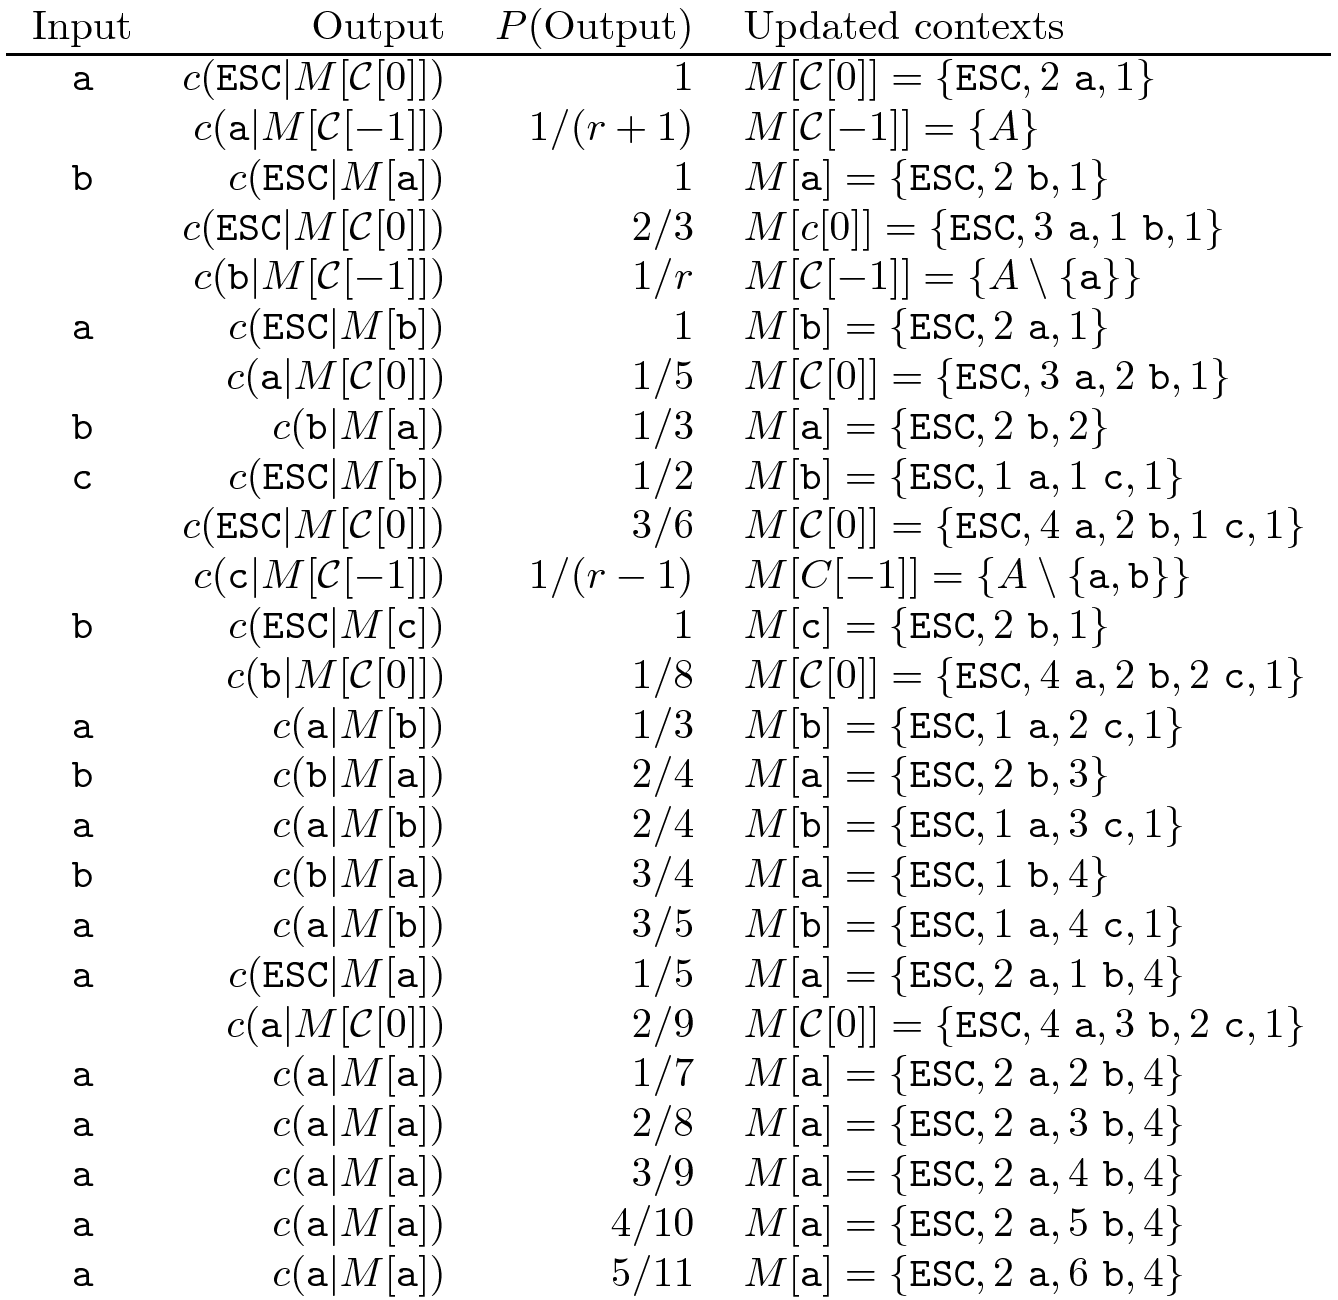
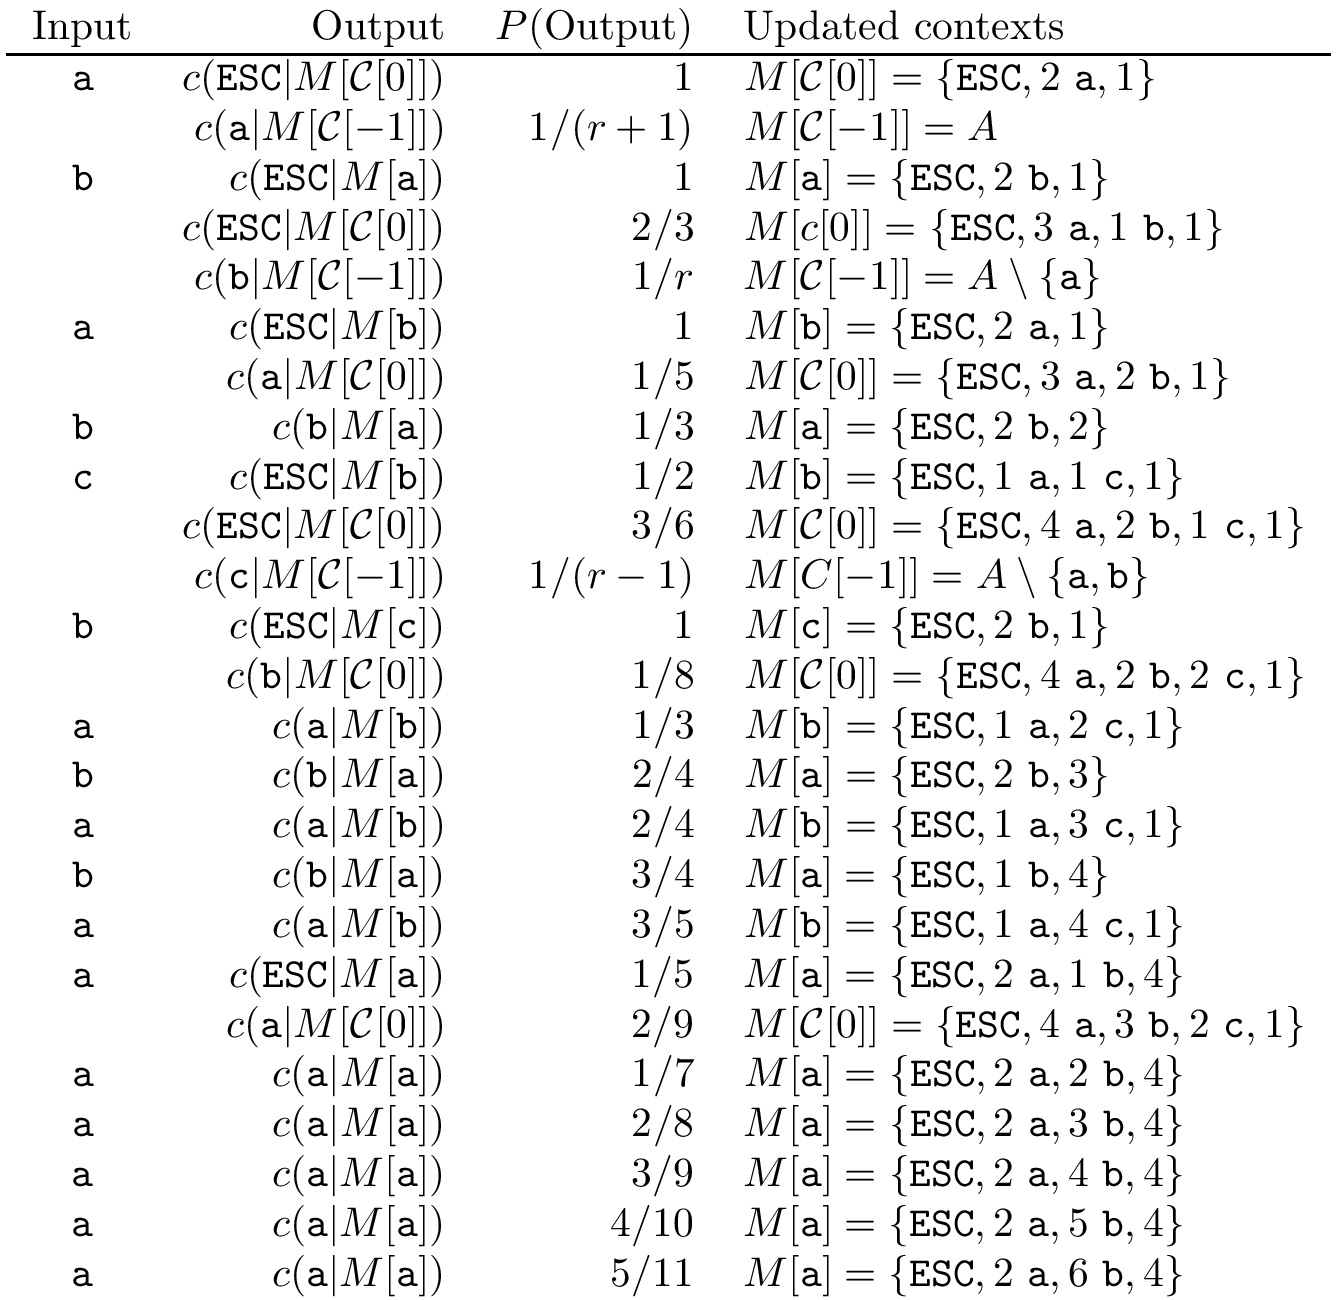
.

diff --git a/data/PPM_example.tex b/data/PPM_example.tex
@@ -6,16 +6,16 @@
   Input & Output & $P(\text{Output})$ & Updated contexts\\
   \hline
   {\tt a} & $c(\mathtt{ESC}|M[{\cal C}[0]])$ & $1$ & $M[{\cal C}[0]]=\{\mathtt{ESC},2~\mathtt{a},1\}$\\
-  ~ & $c(\mathtt{a}|M[{\cal C}[-1]])$ & $1/(r+1)$ & $M[{\cal C}[-1]]=\{A\}$\\
+  ~ & $c(\mathtt{a}|M[{\cal C}[-1]])$ & $1/(r+1)$ & $M[{\cal C}[-1]]=A$\\
   {\tt b} & $c(\mathtt{ESC}|M[\texttt{a}])$ & $1$ & $M[\mathtt{a}]=\{\mathtt{ESC},2~\mathtt{b},1\}$\\
   ~ & $c(\mathtt{ESC}|M[{\cal C}[0]])$ & $2/3$ & $M[c[0]]=\{\mathtt{ESC},3~\mathtt{a},1~\mathtt{b},1\}$\\
-  ~ & $c(\mathtt{b}|M[{\cal C}[-1]])$ & $1/r$ & $M[{\cal C}[-1]]=\{A\setminus\{\mathtt{a}\}\}$ \\
+  ~ & $c(\mathtt{b}|M[{\cal C}[-1]])$ & $1/r$ & $M[{\cal C}[-1]]=A\setminus\{\mathtt{a}\}$ \\
   {\tt a} & $c(\mathtt{ESC}|M[\texttt{b}])$ & $1$ & $M[\mathtt{b}]=\{\mathtt{ESC},2~\mathtt{a},1\}$\\
  ~ & $c(\mathtt a|M[{\cal C}[0]])$ & $1/5$ & $M[{\cal C}[0]]=\{\mathtt{ESC},3~\mathtt{a},2~\mathtt{b},1\}$\\
   {\tt b} & $c(\mathtt b|M[\mathtt{a}])$ & $1/3$ & $M[\mathtt{a}]=\{\mathtt{ESC},2~\mathtt{b},2\}$\\
   {\tt c} & $c(\mathtt{ESC}|M[\mathtt{b}])$ & $1/2$ & $M[\mathtt{b}]=\{\mathtt{ESC},1~\mathtt{a},1~\mathtt{c},1\}$\\
   ~ & $c(\mathtt{ESC}|M[{\cal C}[0]])$ & $3/6$ & $M[{\cal C}[0]]=\{\mathtt{ESC},4~\mathtt{a},2~\mathtt{b},1~\mathtt{c},1\}$\\
-  ~ & $c(\mathtt c|M[{\cal C}[-1]])$ & $1/(r-1)$ & $M[C[-1]]=\{A\setminus\{\mathtt{a},\mathtt{b}\}\}$\\
+  ~ & $c(\mathtt c|M[{\cal C}[-1]])$ & $1/(r-1)$ & $M[C[-1]]=A\setminus\{\mathtt{a},\mathtt{b}\}$\\
   {\tt b} & $c(\mathtt{ESC}|M[\texttt{c}])$ & $1$ & $M[\mathtt{c}]=\{\mathtt{ESC},2~\mathtt{b},1\}$\\
   ~ & $c(\mathtt b|M[{\cal C}[0]])$ & $1/8$ & $M[{\cal C}[0]]=\{\mathtt{ESC},4~\mathtt{a},2~\mathtt{b},2~\mathtt{c},1\}$\\
   {\tt a} & $c(\mathtt a|M[\mathtt{b]})$ & $1/3$ & $M[\mathtt{b}]=\{\mathtt{ESC},1~\mathtt{a},2~\mathtt{c},1\}$\\
